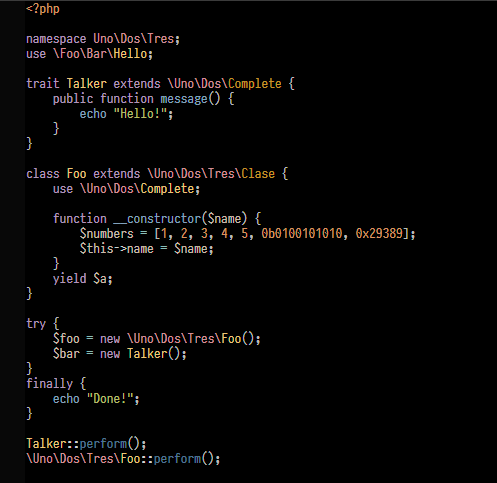
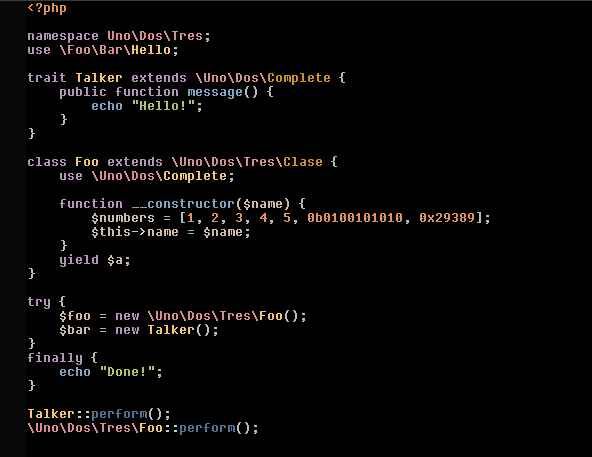
Change screenshot font to Fresco

diff --git a/README.md b/README.md
@@ -4,7 +4,7 @@ Sublime Text syntax definition for current PHP and its companion theme Baara Dar
 
 ![Screenshot](https://raw.github.com/jobedom/sublime-php-modern/master/screenshot.png)
 
-The objective of this package is keeping PHP language definition up to date with PHP syntax changes. Notice the PHP code in the screenshot is pure gobbledygook.
+The objective of this package is keeping PHP language definition up to date with PHP syntax changes. Notice the PHP code in the screenshot is pure gobbledygook. The font used in the capture is Fresco, one of my own.
 
 This is a work in progress. Pull requests are welcome.
 
